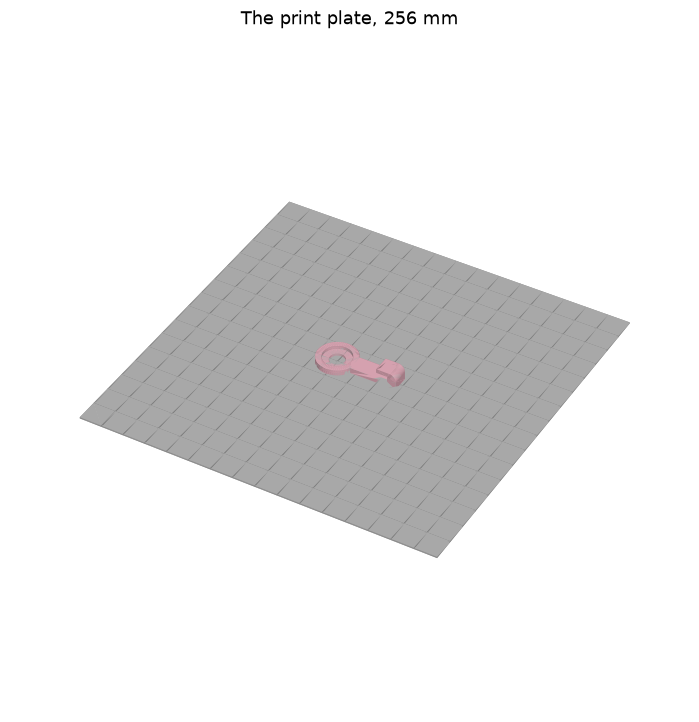
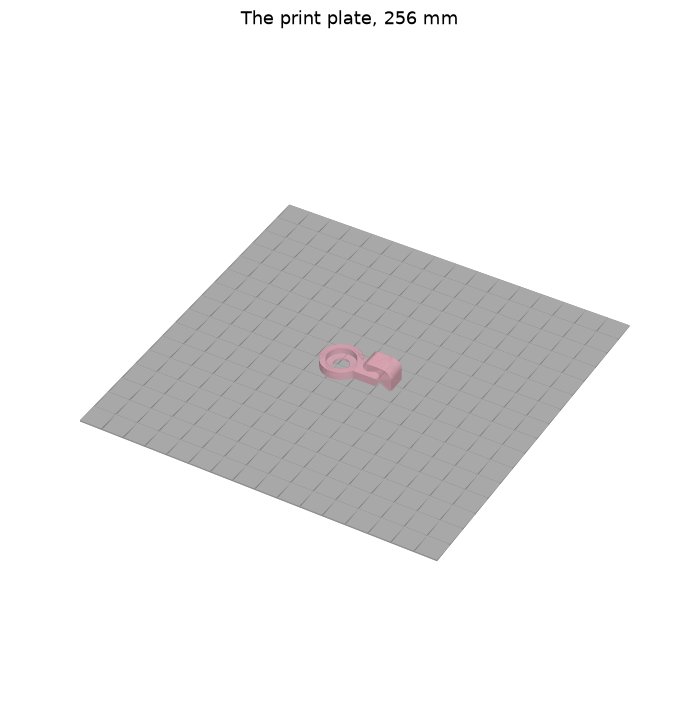
bekant-net-hook: a tip that comes down, a round room, and more material
The hook's top ends in a round tip that comes down to a 4 mm mouth, and
the room inside is round at its back, 6 mm high. The eye and the arm are
6 mm thick and the arm 14 mm wide, with 4 and 8 mm walls on the hook.
The reach is 32 mm.

diff --git a/parts/bekant-net-hook/part.py b/parts/bekant-net-hook/part.py
@@ -12,7 +12,7 @@ Run through bin/part, which checks it and writes the printable files to build/.
 import sys
 from pathlib import Path
 
-from build123d import Align, Box, Cylinder, Pos, Rot
+from build123d import Align, Circle, Cylinder, Pos, Rectangle, Rot, extrude, make_hull
 
 # What the parts share is in lib/; put it on the path, since bin/part's PYTHONPATH is not there when this file is
 # run some other way.
@@ -22,48 +22,65 @@ import plate  # noqa: E402
 HERE = Path(__file__).parent
 CUT = 1  # a cut runs this far past what it cuts through, so it leaves no skin
 MIN = (Align.CENTER, Align.CENTER, Align.MIN)
-FROM_X = (Align.MIN, Align.CENTER, Align.MIN)
 
 SHAFT = 10.55  # the shaft of the Bekant's net holder, the user's measurement on the desk
 RING = 20  # the ring on top of that shaft, the user's measurement on the desk
 SLIDE = 0.2  # a side, round the shaft and round the ring: they slide in
 FLOOR = 1.55  # the hook under the holder's ring, the user's measurement of the room there
-THICK = 4  # the hook everywhere else
+THICK = 6  # the eye and the arm, up from the plate
 RIM = 4  # the wall round the ring
-REACH = 40  # from the middle of the shaft to where the loop's cord rests
-WIDTH = 12  # the arm and the hook, across
-SPACE = 4  # the room inside the hook, across, for the net's loop
-HOOK_WALL = 3  # the hook's wall over that room
+REACH = 32  # from the middle of the shaft to where the loop's cord rests
+WIDTH = 14  # the arm and the hook, across
+SPACE = 6  # the room inside the hook at its back, up from the arm, for the net's loop
+MOUTH = 4  # the room under the hook's tip, up from the arm, which the loop passes on its way in
+HOOK_WALL = 4  # the hook's wall over that room, at its back
 BACK_WALL = 2 * HOOK_WALL  # the hook's wall behind that room, at the arm's end
-LIP = 6  # the hook's top, past the half circle toward the shaft, which keeps the loop under it
+LIP = 6  # from the middle of the room's round back to the middle of the tip, along the arm
 
 POCKET = RING / 2 + SLIDE  # the radius of the pocket the ring sits in
+EYE = POCKET + RIM  # the radius of the eye
 END = REACH + BACK_WALL  # the arm's end, which is the hook's back
 ROUND = SPACE / 2 + HOOK_WALL  # the radius the hook's back rounds over with, at the top
 ROUND_X = END - ROUND  # the middle of that round, along the arm
-LIP_X = REACH - SPACE / 2 - LIP  # where the lip starts, along the arm
-HOOK_Z = THICK + SPACE / 2  # and up: the room inside the hook starts on the arm's top
+ROOM_X = REACH - SPACE / 2  # the middle of the room's round back, along the arm
+LIP_X = ROOM_X - LIP  # the middle of the tip, along the arm
+HOOK_Z = THICK + SPACE / 2  # the middle of both rounds, up: the room inside the hook starts on the arm's top
+TOP = THICK + SPACE + HOOK_WALL  # the hook's top
+TIP = (TOP - THICK - MOUTH) / 2  # the radius of the tip, which comes down from the top to the mouth
 VIEWS = (*plate.ANGLE, ("side.png", 0, -90, "From the side: the hook opens toward the shaft"))
 
 
+def box(x_from, x_to, z_from, z_to):
+    """A rectangle of the side profile, from its corners."""
+    return Pos(x_from, z_from) * Rectangle(x_to - x_from, z_to - z_from, align=Align.MIN)
+
+
+def profile():
+    """The arm and the hook from the side: x along the arm, and the sketch's y is the part's z."""
+    arm = box(0, END, 0, THICK)
+    # The hook stands on the arm: a back that is straight below the room's middle and rounds over above it, a top
+    # that runs toward the shaft, and a round tip that comes down from the top to the mouth.
+    curl = Pos(ROUND_X, HOOK_Z) * Circle(ROUND) & box(ROUND_X, END, HOOK_Z, TOP)
+    back = box(ROUND_X, END, THICK, HOOK_Z)
+    top = box(LIP_X, ROUND_X, THICK, TOP)
+    tip = Pos(LIP_X, TOP - TIP) * Circle(TIP)
+    # The room inside is round at its back and narrows to the mouth: its ceiling comes down in a straight line
+    # from the round back to the tip, so the inside has no corner.
+    ends = Pos(ROOM_X, HOOK_Z) * Circle(SPACE / 2) + Pos(LIP_X, THICK + MOUTH / 2) * Circle(MOUTH / 2)
+    room = make_hull(ends.edges())
+    return arm + (curl + back + top + tip - room)
+
+
 def hook():
-    eye = Cylinder(POCKET + RIM, THICK, align=MIN)
-    arm = Box(END, WIDTH, THICK, align=FROM_X)
+    eye = Cylinder(EYE, THICK, align=MIN)
     pocket = Pos(0, 0, FLOOR) * Cylinder(POCKET, THICK, align=MIN)
     hole = Pos(0, 0, -CUT) * Cylinder(SHAFT / 2 + SLIDE, THICK + 2 * CUT, align=MIN)
-    # The hook stands on the arm: a block over the room, and a back that is straight below the room's middle and
-    # rounds over above it, as the far half of a cylinder with its axis across.
-    # The room inside is a slot with a flat back, open toward the shaft.
-    half = Pos(0, 0, -WIDTH / 2) * Box(ROUND, 2 * ROUND, WIDTH, align=(Align.MIN, Align.CENTER, Align.MIN))
-    curl = Pos(ROUND_X, 0, HOOK_Z) * Rot(90, 0, 0) * (Cylinder(ROUND, WIDTH) & half)
-    back = Pos(ROUND_X, 0, THICK) * Box(ROUND, WIDTH, HOOK_Z - THICK, align=FROM_X)
-    top = Pos(LIP_X, 0, THICK) * Box(ROUND_X - LIP_X, WIDTH, SPACE + HOOK_WALL, align=FROM_X)
-    room = Pos(LIP_X - CUT, 0, THICK) * Box(REACH - LIP_X + CUT, WIDTH + 2 * CUT, SPACE, align=FROM_X)
-    return eye + arm + (curl + back + top - room) - pocket - hole
+    side = Rot(90, 0, 0) * extrude(profile(), WIDTH / 2, both=True)
+    return eye + side - pocket - hole
 
 
 def main():
-    # The hook's top half and its lip hang over the arm, so they print on supports.
+    # The hook's top and its tip hang over the arm, so they print on supports.
     plate.run(HERE, printed={"hook": hook()}, slicer={"hook": {"enable_support": "1"}}, views=VIEWS)
 
 

diff --git a/parts/bekant-net-hook/README.md b/parts/bekant-net-hook/README.md
@@ -2,7 +2,7 @@
 
 A hook that gives the IKEA Bekant's cable net slack. The net's loops are too tight on the net
 holders under the desk. The hook's eye goes on a holder's shaft, under the holder's ring, and the
-net's loop hooks into the other end, 40 mm further out.
+net's loop hooks into the other end, 32 mm further out.
 
 ![bekant-net-hook](pictures/angle.png)
 
@@ -12,28 +12,29 @@ net's loop hooks into the other end, 40 mm further out.
 
 | Printed | Count | Prints | Supports |
 | --- | --- | --- | --- |
-| `hook` | 1 | Flat face down, pocket and hook up | Under the hook's top half and its lip |
+| `hook` | 1 | Flat face down, pocket and hook up | Under the hook's top and its tip |
 
 The eye's hole is the holder's 10.55 mm shaft with 0.2 mm a side. The pocket round it is the
 holder's 20 mm ring with 0.2 mm a side, and its floor is 1.55 mm thick, the room under the ring.
-The rest is 4 mm thick.
+The eye and the arm are 6 mm thick.
 
 The hook stands on the end of the arm and opens toward the shaft. Its back is straight, in line
-with the arm's end, and rounds over at the top. Its top runs
-6 mm further toward the shaft as a flat lip, which keeps the loop under it. The room inside is a
-slot 4 mm high with a flat back. The wall over it is 3 mm and the wall behind it, at the arm's end,
-6 mm. The hook is as wide as the arm, 12 mm.
+with the arm's end, and rounds over at the top. Its top runs toward the shaft and ends in a round
+tip that comes down again, which keeps the loop in the hook. The room inside is 6 mm high at its
+round back and narrows to a 4 mm mouth under the tip. Its ceiling is a straight line between the
+two, so the inside has no corner. The wall over the room is 4 mm at its back and the wall behind
+it, at the arm's end, 8 mm. The hook is as wide as the arm, 14 mm.
 
-The hook's top half and its lip hang over the arm and print on supports, which the plate turns on
-for this piece (`enable_support`). The net pulls the hook along its layers, across the 6 mm wall where it
-stands on the arm.
+The hook's top and its tip hang over the arm and print on supports, which the plate turns on for
+this piece (`enable_support`). The net pulls the hook along its layers, across the 8 mm wall where
+it stands on the arm.
 
 ## Putting it together
 
 1. Take the net holder off the desk.
 2. Put the holder's shaft through the eye, the ring in the pocket.
 3. Put the holder back, with the arm pointing at the net.
-4. Slide the net's loop along the arm and under the hook.
+4. Slide the net's loop along the arm, through the mouth and into the hook.
 
 ## Printing
 
